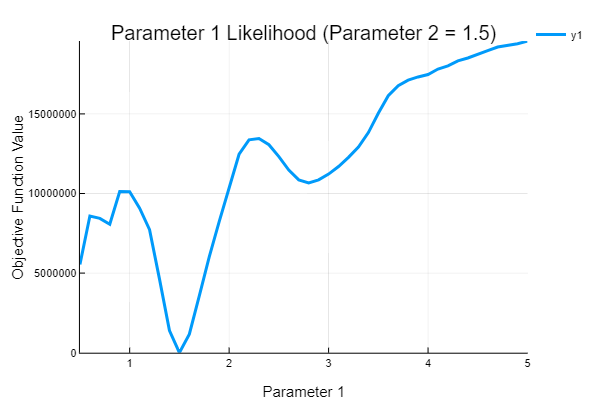
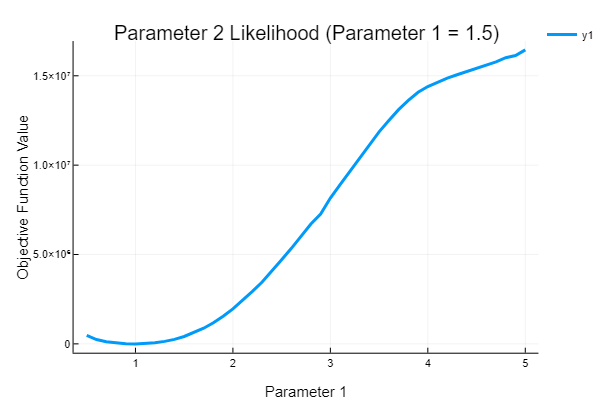
swaped parameter 1 and 2 in the example to match with the example. Small change: renamed range into prange to avoid collision with Base.range.

diff --git a/docs/src/analysis/parameter_estimation.md b/docs/src/analysis/parameter_estimation.md
@@ -860,8 +860,8 @@ First let's use the objective function to plot the likelihood landscape:
 
 ```julia
 using Plots; plotly()
-range = 0.5:0.1:5.0
-heatmap(range,range,[obj([j,i]) for i in range, j in range],
+prange = 0.5:0.1:5.0
+heatmap(prange,prange,[obj([j,i]) for i in prange, j in prange],
         yscale=:log10,xlabel="Parameter 1",ylabel="Parameter 2",
         title="Likelihood Landscape")
 ```
@@ -869,13 +869,13 @@ heatmap(range,range,[obj([j,i]) for i in range, j in range],
 ![2 Parameter Likelihood](../assets/2paramlike.png)
 
 Recall that this is the negative loglikelihood and thus the minimum is the
-maximum of the likelihood. There is a clear valley where the second parameter
+maximum of the likelihood. There is a clear valley where the first parameter
 is 1.5, while the first parameter's likelihood is more muddled. By taking a
 one-dimensional slice:
 
 ```julia
-plot(range,[obj([i,1.0]) for i in range],lw=3,
-     title="Parameter 1 Likelihood (Parameter 2 = 1.5)",
+plot(prange,[obj([1.5,i]) for i in prange],lw=3,
+     title="Parameter 2 Likelihood (Parameter 1 = 1.5)",
      xlabel = "Parameter 1", ylabel = "Objective Function Value")
 ```
 
